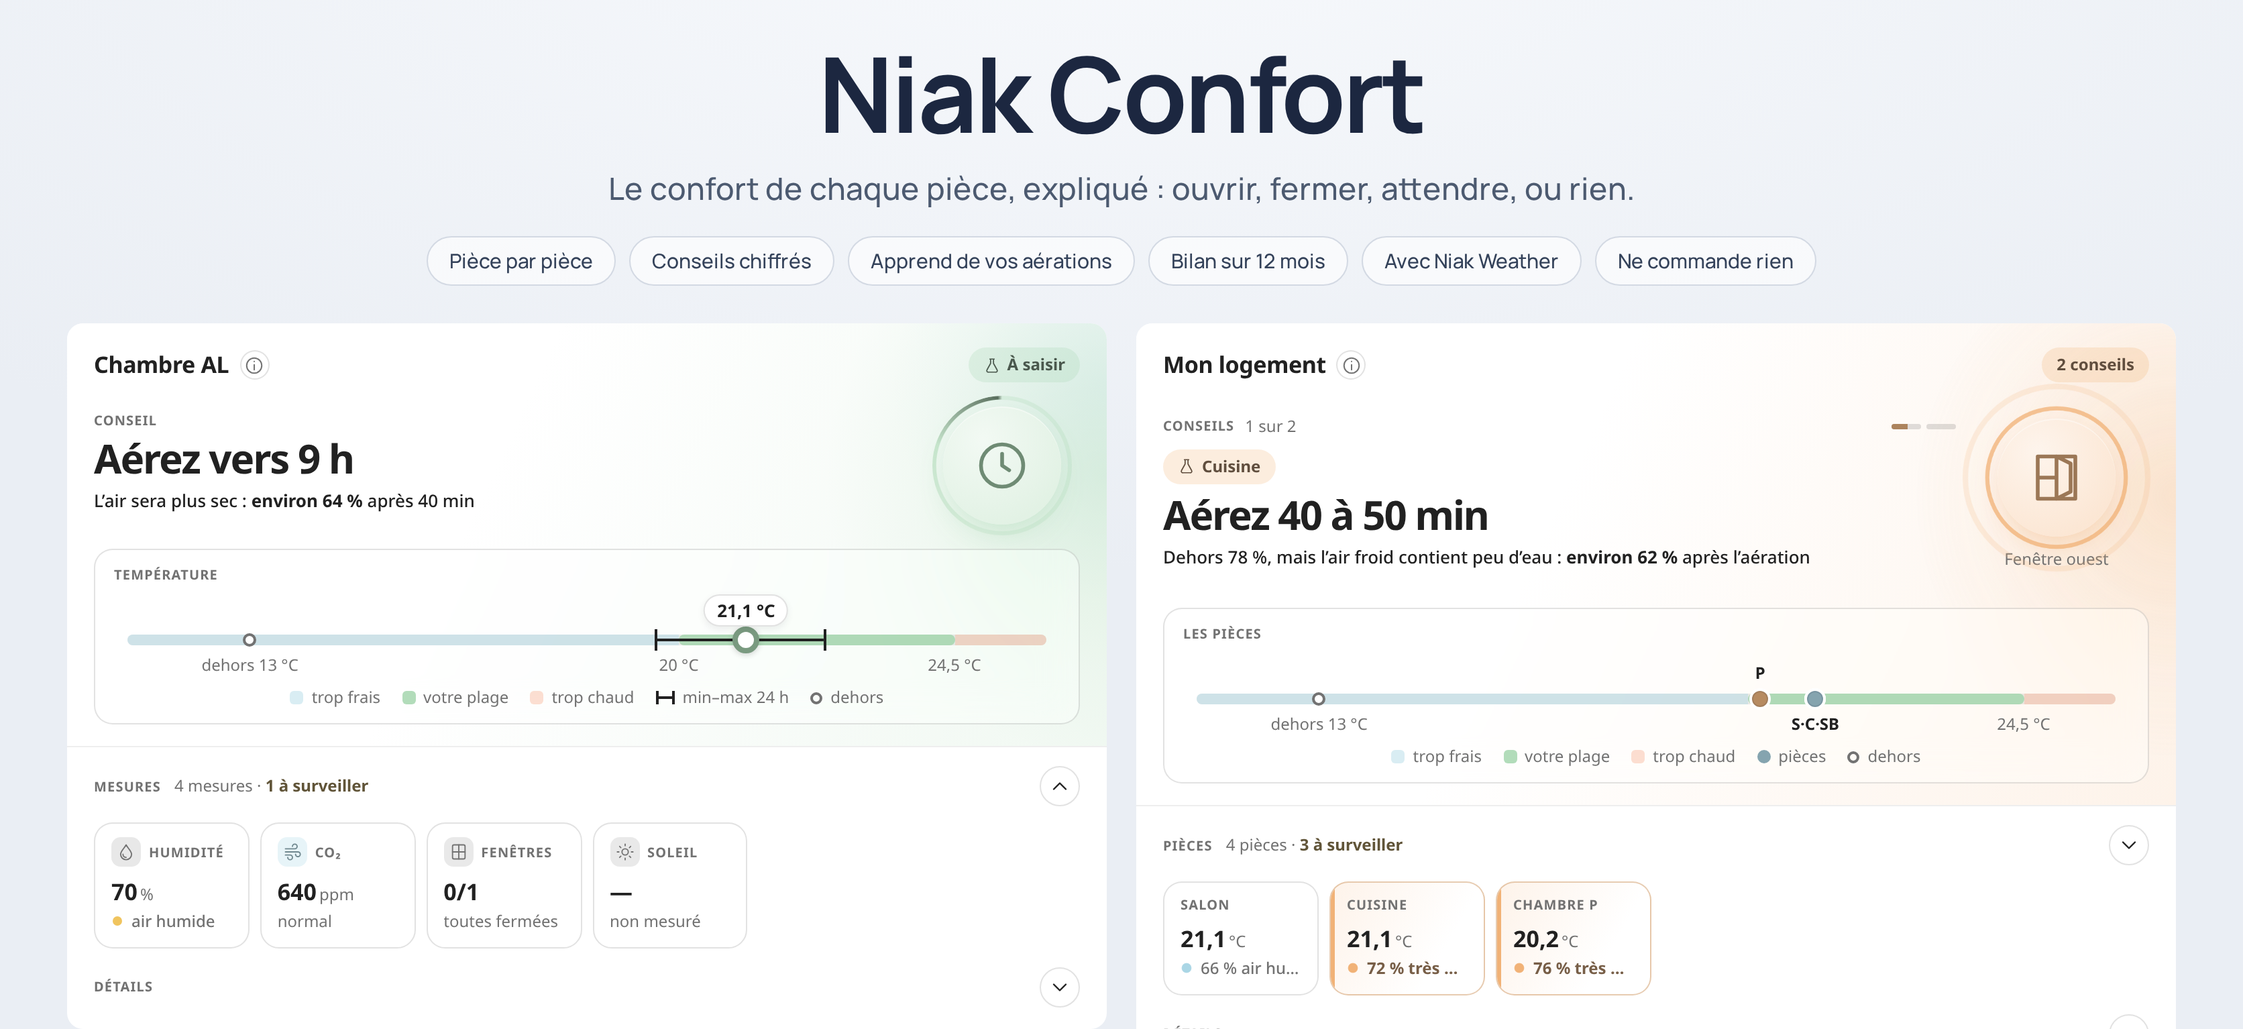
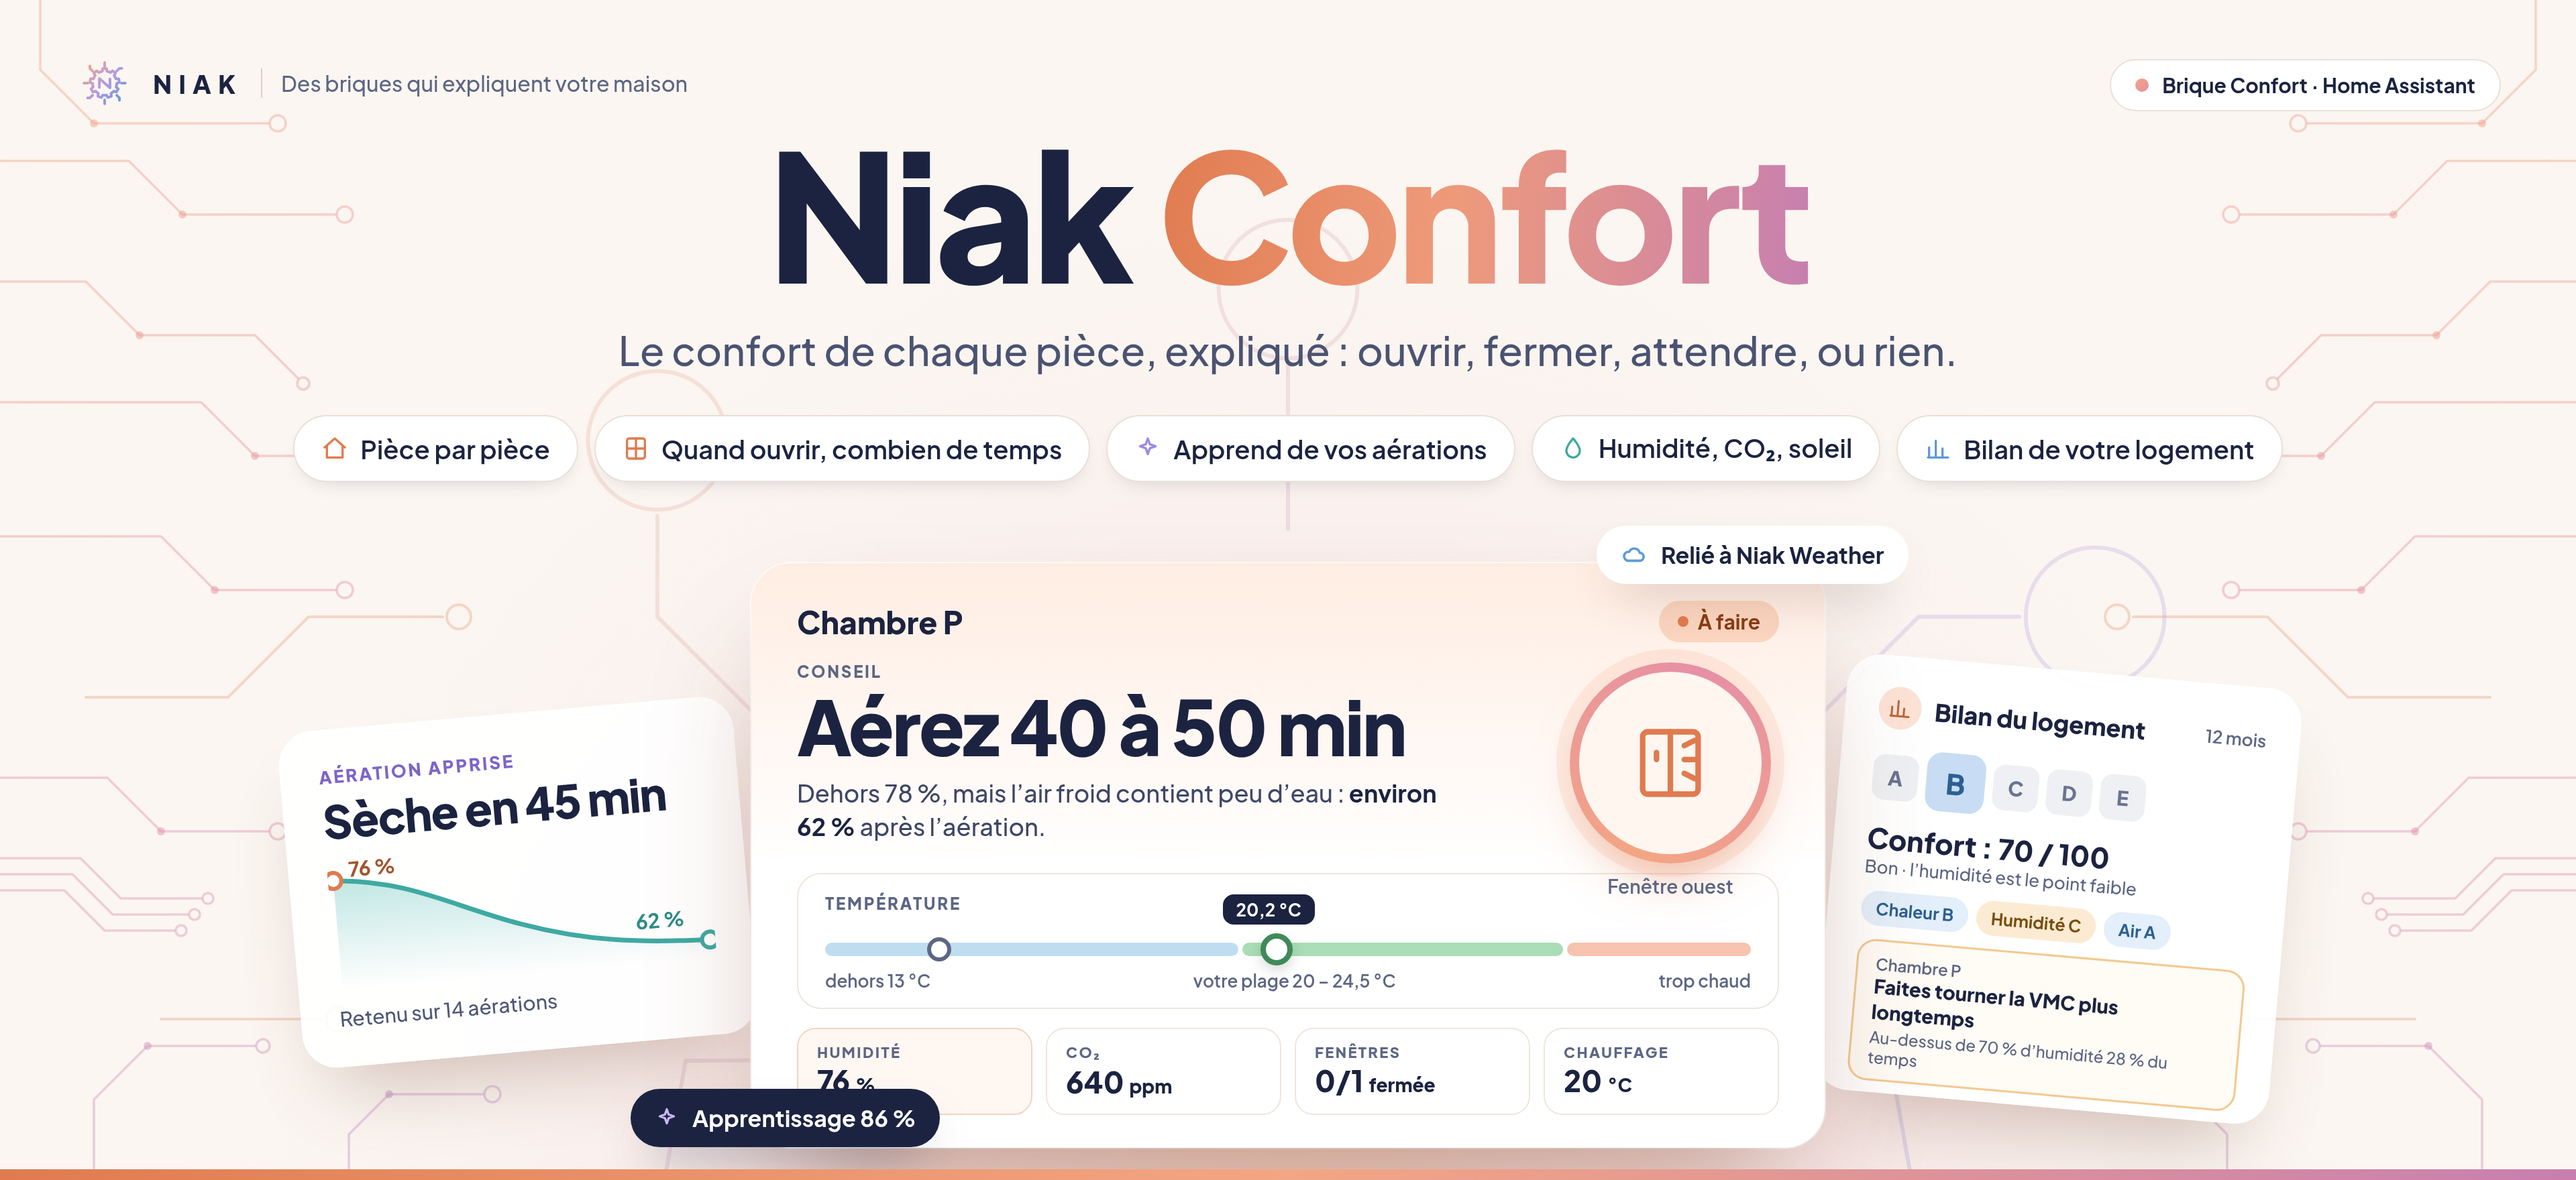
docs: nouveau bandeau, plus moderne

diff --git a/README.md b/README.md
@@ -15,7 +15,7 @@
 
 Il conseille seulement : il ne commande aucun équipement.
 
-![Niak Confort — le confort de chaque pièce, expliqué : la carte d’une pièce qui conseille d’aérer vers 9 h, à côté de la carte du logement](docs/images/niak-comfort-banner.png)
+![Niak Confort — le confort de chaque pièce, expliqué : la carte d’une pièce qui conseille d’aérer 40 à 50 min, entre l’aération apprise et le bilan du logement](docs/images/niak-comfort-banner.png)
 
 ## Pourquoi
 
